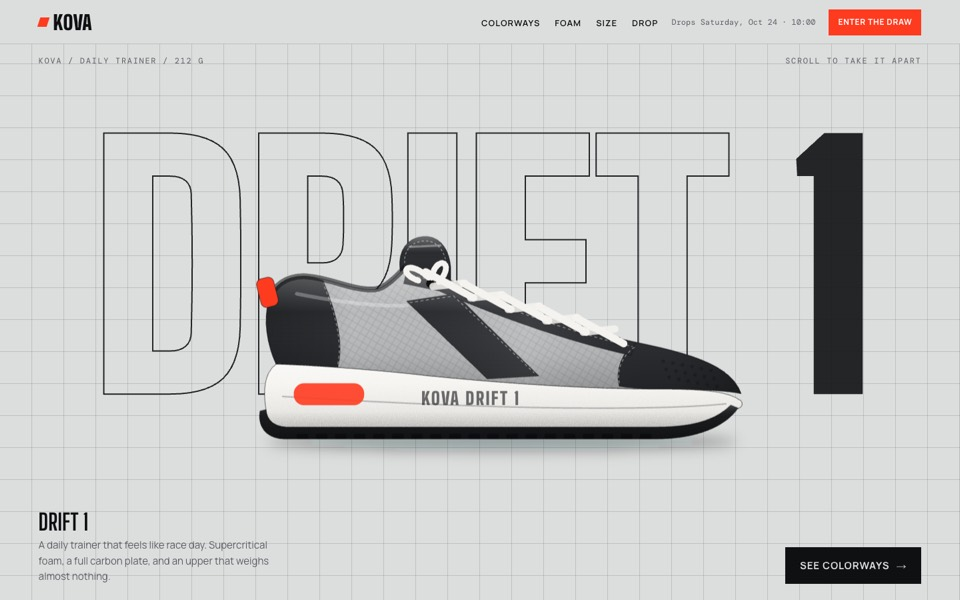
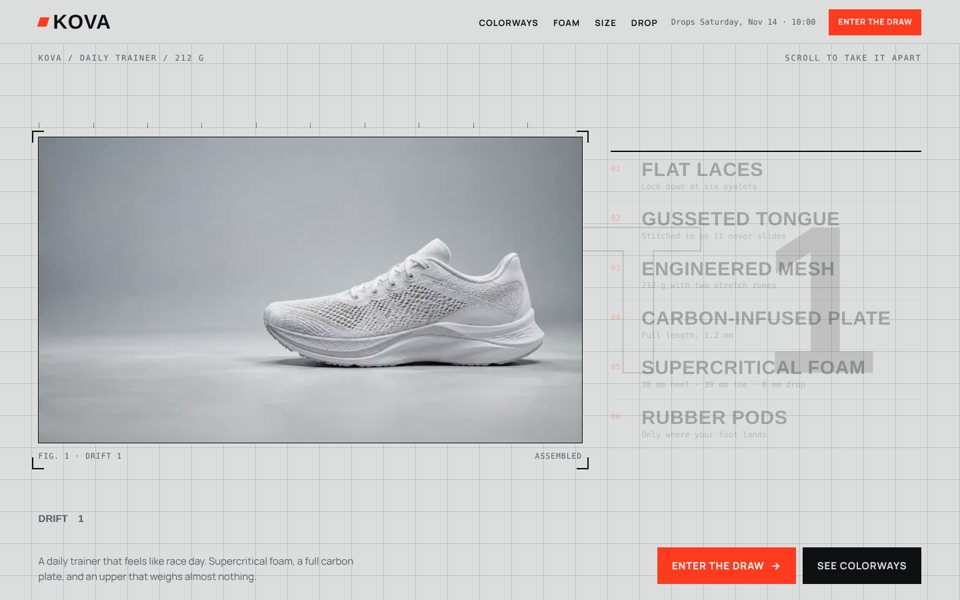
Kova redesigned v5: the real exploded view, filmed, pinned to a drafting sheet
The drawn trainer is gone. The shoe (the brand's video or photos, or the design's take)
comes apart and back together as you scroll inside a figure plate with crop marks and a
ruler, the six layers called out one by one on the spec list beside it. Colourways are
now a seven-part colour card instead of a recoloured drawing.

Claude-Session: https://claude.ai/code/session_0133g3z4wqTvWj4LLKkZ92ba

diff --git a/design-packages/design/kova/template.html b/design-packages/design/kova/template.html
@@ -1,4 +1,6 @@
 <!doctype html><html><head><meta charset=utf8><meta name=viewport content="width=device-width,initial-scale=1,viewport-fit=cover"><style>:root{color-scheme:light;box-sizing:border-box;padding-top:env(safe-area-inset-top,0px);padding-bottom:env(safe-area-inset-bottom,0px)}html{scroll-padding-top:env(safe-area-inset-top,0px)}body{margin:0;padding:0;font:14px -apple-system,BlinkMacSystemFont,sans-serif;background:#fff;color:#000}img{max-width:100%}[hidden]:not([hidden=until-found i]){display:none!important}</style></head><body>
+<meta name="description" content="{{hero.lede|attr}}">
+<script>document.documentElement.classList.add('js');setTimeout(function(){if(!window.__kova)document.documentElement.classList.remove('js')},3500)</script>
 <title>{{business.name}}</title>
 <link rel="preconnect" href="https://fonts.googleapis.com">
 <link rel="preconnect" href="https://fonts.gstatic.com" crossorigin>
@@ -48,32 +50,51 @@ p { margin: 0; }
 .drop-chip { font-family: var(--mono); font-size: 12px; color: var(--dim); }
 @media (max-width: 760px) { .nav ul, .drop-chip { display: none; } .nav .btn { margin-left: auto; } }
 
-/* ---------- hero ---------- */
-.hero { height: 440vh; position: relative; }
-.stage { position: sticky; top: 0; height: 100svh; overflow: hidden; display: grid; place-items: center; }
-.bigword { position: absolute; left: 0; right: 0; top: 50%; transform: translateY(-62%); text-align: center; font-family: var(--display); font-weight: 900; font-size: 34vw; line-height: .8; letter-spacing: -.02em;
-  color: transparent; -webkit-text-stroke: 2px var(--ink); opacity: .9; white-space: nowrap; pointer-events: none; user-select: none; }
-.bigword b { color: var(--ink); -webkit-text-stroke: 0; font-weight: 900; }
-.shoebox { position: relative; width: min(94vw, 1100px, 128svh); z-index: 2; will-change: transform; }
-.hero .shoebox { margin-top: 2svh; }
-.shoebox svg { width: 100%; height: auto; display: block; overflow: visible; }
-.hero-meta { position: absolute; left: var(--gutter); right: var(--gutter); bottom: calc(env(safe-area-inset-bottom, 0px) + 24px); display: flex; justify-content: space-between; align-items: end; gap: 18px; z-index: 3; flex-wrap: wrap; }
-.hero-meta .left { display: grid; gap: 8px; max-width: 36ch; }
-.hero-meta .left b { font-family: var(--display); font-size: 34px; text-transform: uppercase; line-height: .9; }
+/* ---------- hero: the exploded view, filmed, pinned to a drafting sheet ---------- */
+.hero { position: relative; }
+.stage { position: relative; min-height: min(100svh, 980px); overflow: hidden; display: grid; grid-template-columns: minmax(0, 1.75fr) minmax(0, 1fr); gap: clamp(20px, 3vw, 48px); align-items: center; padding: calc(env(safe-area-inset-top, 0px) + 110px) var(--gutter) 110px; }
+.js:not(.flat) .hero { height: 460vh; }
+.js:not(.flat) .stage { position: sticky; top: 0; height: 100svh; min-height: 0; }
+.bigword { position: absolute; left: 0; right: 0; top: 50%; transform: translateY(-50%); text-align: center; font-family: var(--display); font-weight: 900; font-size: clamp(120px, 22vw, 380px); line-height: .8; text-transform: uppercase; color: transparent; -webkit-text-stroke: 2px var(--ink); opacity: .14; white-space: nowrap; pointer-events: none; user-select: none; }
+.bigword b { color: var(--ink); -webkit-text-stroke: 0; }
+.hero-top { position: absolute; left: var(--gutter); right: var(--gutter); top: calc(env(safe-area-inset-top, 0px) + 78px); display: flex; justify-content: space-between; gap: 12px; z-index: 3; }
+.plate { position: relative; z-index: 2; margin: 0; align-self: center; }
+.plate .frame { position: relative; aspect-ratio: 16 / 9; background: #dfe1e3; box-shadow: 0 0 0 1px var(--ink); overflow: hidden; }
+.plate img, .plate canvas { position: absolute; inset: 0; width: 100%; height: 100%; display: block; }
+.plate img { object-fit: cover; }
+.plate .crop { position: absolute; width: 18px; height: 18px; border: 0 solid var(--ink); }
+.plate .crop.a { left: -10px; top: -10px; border-width: 2px 0 0 2px; }
+.plate .crop.b { right: -10px; top: -10px; border-width: 2px 2px 0 0; }
+.plate .crop.c { left: -10px; bottom: -10px; border-width: 0 0 2px 2px; }
+.plate .crop.d { right: -10px; bottom: -10px; border-width: 0 2px 2px 0; }
+.plate figcaption { display: flex; justify-content: space-between; gap: 12px; margin-top: 12px; font-family: var(--mono); font-size: 11.5px; letter-spacing: .08em; text-transform: uppercase; color: var(--dim); }
+.plate .rule { position: absolute; left: 0; right: 0; top: -22px; height: 8px; background: repeating-linear-gradient(90deg, var(--ink) 0 1px, transparent 1px 10%); opacity: .5; }
+.parts { position: relative; z-index: 2; list-style: none; margin: 0; padding: 0; counter-reset: p; border-top: 2px solid var(--ink); }
+.parts li { position: relative; display: grid; grid-template-columns: 34px minmax(0, 1fr); gap: 2px 12px; padding: 12px 0; border-bottom: 1px solid var(--line); opacity: .28; transition: opacity .35s, background .35s; }
+.parts li.seen { opacity: .7; }
+.parts li.on { opacity: 1; }
+.parts li::before { content: ""; position: absolute; right: 100%; top: 50%; width: 0; height: 2px; background: var(--accent); transition: width .5s var(--out); }
+.parts li.on::before { width: clamp(20px, 3vw, 48px); }
+.parts .n { grid-row: 1 / 3; font-family: var(--mono); font-size: 12px; color: var(--accent); padding-top: 4px; }
+.parts b { font-family: var(--display); font-size: clamp(22px, 2vw, 30px); line-height: 1; text-transform: uppercase; letter-spacing: .02em; }
+.parts span { font-family: var(--mono); font-size: 12px; color: var(--dim); }
+.hero-meta { position: absolute; left: var(--gutter); right: var(--gutter); bottom: calc(env(safe-area-inset-bottom, 0px) + 24px); display: flex; justify-content: space-between; align-items: end; gap: 20px; z-index: 3; transition: opacity .4s; }
+.hero-meta .left { display: grid; gap: 8px; max-width: 46ch; }
+.hero-meta .left b { font-family: var(--display); font-size: clamp(34px, 4vw, 56px); text-transform: uppercase; line-height: .9; }
 .hero-meta .left span { color: var(--dim); font-size: 15px; }
-.hb { display: flex; gap: 10px; }
-.hero-top { position: absolute; left: var(--gutter); right: var(--gutter); top: calc(env(safe-area-inset-top, 0px) + 82px); display: flex; justify-content: space-between; gap: 16px; z-index: 3; }
-.spec-card { position: absolute; left: 50%; transform: translateX(-50%); bottom: calc(env(safe-area-inset-bottom, 0px) + 96px); z-index: 4; background: var(--ink); color: var(--paper); padding: 12px 16px; min-width: 260px; max-width: calc(100vw - 32px); display: none; }
-.spec-card b { display: block; font-family: var(--display); font-size: 26px; text-transform: uppercase; line-height: 1; }
-.spec-card span { font-family: var(--mono); font-size: 12px; color: #b8bcbf; }
-@media (max-width: 760px) { .spec-card { display: block; } .hero-meta .left span { display: none; } .hero-meta .btns { display: none; } .bigword { font-size: 27vw; } .hero .shoebox { width: 104vw; margin-top: -6svh; } }
-.callout text { font-family: var(--mono); fill: var(--ink); paint-order: stroke; stroke: var(--paper); stroke-width: 8px; stroke-linejoin: round; }
-.callout .t1 { font-family: var(--display); font-weight: 700; font-size: 30px; text-transform: uppercase; letter-spacing: .02em; }
-.callout .t2 { font-size: 17px; fill: var(--dim); }
-.callout path { fill: none; stroke: var(--ink); stroke-width: 1.6; }
-.callout circle { fill: var(--accent); }
-.callout .num { font-family: var(--mono); font-size: 14px; fill: var(--accent); }
-@media (max-width: 760px) { .callout .t2 { display: none; } .callout .t1 { font-size: 46px; } }
+.hb { display: flex; gap: 10px; flex-wrap: wrap; }
+.split .w { display: inline-block; overflow: hidden; vertical-align: top; padding-bottom: .06em; }
+.split .w > i { display: inline-block; font-style: normal; animation: rise .9s var(--out) both; }
+@keyframes rise { from { transform: translateY(108%); } }
+@media (max-width: 860px) {
+  .js:not(.flat) .hero { height: 420vh; }
+  .stage { grid-template-columns: 1fr; align-content: start; gap: 18px; padding-top: calc(env(safe-area-inset-top, 0px) + 112px); padding-bottom: 150px; }
+  .js:not(.flat) .parts li:not(.on) { display: none; }
+  .js:not(.flat) .parts li { border: 0; }
+  .parts li::before { display: none; }
+  .hero-meta .left span { display: none; }
+  .bigword { top: 30%; }
+}
 
 /* ---------- band ---------- */
 .band { background: var(--ink); color: var(--paper); overflow: hidden; padding-block: 14px; position: relative; z-index: 3; }
@@ -86,8 +107,10 @@ p { margin: 0; }
 .c-head { display: flex; justify-content: space-between; align-items: end; gap: 20px; flex-wrap: wrap; }
 .c-head p { max-width: 36ch; color: var(--dim); }
 .c-stage { position: relative; margin-top: 4vh; display: grid; place-items: center; min-height: 40vh; }
-.c-stage .shoebox { width: min(92vw, 980px); transition: transform .8s var(--spring); }
-.c-stage .shoebox.flip { transform: scaleX(-1); }
+.chipcard { position: relative; z-index: 2; display: grid; grid-template-columns: repeat(7, minmax(0, 1fr)); width: min(92vw, 980px); height: clamp(200px, 34vh, 340px); box-shadow: 0 0 0 1px var(--ink), 0 30px 60px -30px rgba(0,0,0,.4); }
+.chipcard div { background: var(--c); display: flex; flex-direction: column; justify-content: flex-end; gap: 4px; padding: 12px 10px; font-family: var(--mono); font-size: 11px; text-transform: uppercase; letter-spacing: .06em; color: var(--t); transition: background-color .6s var(--out); }
+.chipcard div b { font-family: var(--display); font-size: clamp(16px, 1.6vw, 22px); letter-spacing: .02em; }
+@media (max-width: 760px) { .chipcard { grid-template-columns: 1fr; height: auto; } .chipcard div { flex-direction: row; justify-content: space-between; align-items: baseline; padding: 14px 12px; } }
 .c-name { position: absolute; left: 0; right: 0; top: 50%; transform: translateY(-50%); text-align: center; font-family: var(--display); font-weight: 900; font-size: 22vw; line-height: .8; text-transform: uppercase; color: rgba(15,16,18,.07); pointer-events: none; white-space: nowrap; }
 .c-bar { display: flex; flex-wrap: wrap; justify-content: space-between; align-items: center; gap: 16px; margin-top: 3vh; }
 .swatches { display: flex; gap: 10px; flex-wrap: wrap; }
@@ -181,11 +204,21 @@ footer { background: var(--ink); color: var(--paper); padding: 4vh var(--gutter)
     <div class="stage" id="stage">
       <div class="bigword" aria-hidden="true" id="bigword">{{product.bigA}} <b>{{product.bigB}}</b></div>
       <div class="hero-top"><span class="eyebrow">{{hero.eyebrow}}</span><span class="eyebrow" id="explodeLbl">Scroll to take it apart</span></div>
-      <div class="shoebox" id="heroShoe"></div>
-      <div class="spec-card" id="specCard"><b id="specT">{{product.name}}</b><span id="specS">Scroll to take it apart</span></div>
-      <div class="hero-meta">
+      <figure class="plate" id="plate">
+        <div class="rule" aria-hidden="true"></div>
+        <div class="frame">
+{{#if $.film.poster}}          <img src="{{$.film.poster|attr}}" alt="" aria-hidden="true">
+{{/if}}          <canvas id="film" role="img" aria-label="{{$.shoeAlt|attr}}, coming apart into its layers and back together"></canvas>
+        </div>
+        <span class="crop a"></span><span class="crop b"></span><span class="crop c"></span><span class="crop d"></span>
+        <figcaption><span>Fig. 1 · {{product.name}}</span><span id="figState">Assembled</span></figcaption>
+      </figure>
+      <ol class="parts" id="parts" aria-live="polite">
+{{#each layers join="\n"}}        <li><span class="n">0{{@n}}</span><b>{{.title}}</b><span>{{.spec}}</span></li>{{/each}}
+      </ol>
+      <div class="hero-meta" id="heroMeta">
         <div class="left"><b>{{product.name}}</b><span>{{hero.lede}}</span></div>
-        <div class="btns hb"><a class="btn k" href="#colors">{{hero.button}} <span class="arr">→</span></a></div>
+        <div class="btns hb"><a class="btn r" href="#drop">{{nav.cta}} <span class="arr">→</span></a><a class="btn k" href="#colors">{{hero.button}}</a></div>
       </div>
     </div>
   </section>
@@ -198,11 +231,11 @@ footer { background: var(--ink); color: var(--paper); padding: 4vh var(--gutter)
     <div class="c-head"><div><p class="eyebrow">{{colors.eyebrow}}</p><h2>{{colors.titleA}}<br>{{colors.titleB}}</h2></div><p>{{colors.body}}</p></div>
     <div class="c-stage">
       <div class="c-name" id="cName" aria-hidden="true">{{colorways.0.name}}</div>
-      <div class="shoebox" id="colorShoe"></div>
+      <div class="chipcard" id="chipcard" role="img" aria-label="The colours of {{colorways.0.name|attr}}"></div>
     </div>
     <div class="c-bar">
       <div class="swatches" id="swatches"></div>
-      <div class="c-price"><b>{{$.priceText}}</b><button class="btn k" id="flip" type="button">Flip it ↔</button><a class="btn r" href="#drop">{{nav.cta}} <span class="arr">→</span></a></div>
+      <div class="c-price"><b>{{$.priceText}}</b><a class="btn r" href="#drop">{{nav.cta}} <span class="arr">→</span></a></div>
     </div>
   </section>
 
@@ -266,121 +299,26 @@ footer { background: var(--ink); color: var(--paper); padding: 4vh var(--gutter)
   const COLORWAYS = [
 {{$.colorwaysJs|raw}}
   ];
-  function applyColors(el, c) { for (const k of ['upper', 'over', 'mid', 'sole', 'lace', 'acc', 'tongue', 'plate']) el.style.setProperty('--c-' + k, c[k]); }
-
-  /* ---------- the shoe (side view, toe right, 800x400 local units) ---------- */
-  const HOLES = Array.from({ length: 6 }, (_, i) => { const t = i / 5; return [332 + (588 - 332) * t, 126 + (204 - 126) * t]; });
-  function shoe(id, withCallouts) {
-    const laces = HOLES.slice(0, 5).map(([x, y], i) => { const [x2, y2] = HOLES[i + 1]; return `<path class="f-lace" d="M${x - 6} ${y - 16} L${x2 + 8} ${y2 + 4}" stroke-width="10" stroke-linecap="round"/><path class="f-lace" d="M${x + 4} ${y + 4} L${x2 - 4} ${y2 - 16}" stroke-width="10" stroke-linecap="round" opacity=".85"/>`; }).join('');
-    const holes = HOLES.map(([x, y]) => `<circle cx="${x}" cy="${y}" r="5.5" fill="#0f1012"/>`).join('');
-    const perf = []; for (let i = 0; i < 6; i++) for (let j = 0; j < 3; j++) perf.push(`<circle cx="${650 + i * 13 + j * 4}" cy="${232 + j * 11 + i * 2.5}" r="2.6" fill="rgba(15,16,18,.35)"/>`);
-    const lugs = []; for (let x = 150; x < 640; x += 26) lugs.push(`<rect x="${x}" y="331" width="16" height="7" rx="2" fill="rgba(0,0,0,.35)"/>`);
-    const UPPER = 'M122 236 C110 210 104 176 112 150 C118 128 136 116 160 116 C196 118 226 136 256 134 C270 133 284 118 298 104 L352 118 C420 148 520 186 610 206 C690 222 742 238 756 276 C738 272 700 270 640 270 C560 270 450 264 330 252 C260 244 180 238 122 236 Z';
-    const g = (cls, inner) => `<g class="part ${cls}" data-part="${cls}">${inner}</g>`;
-    const parts =
-      g('p-tongue', `<path class="f-tongue ink" d="M292 112 C286 86 298 64 322 62 C344 60 358 78 360 104 L360 124 L300 118 Z"/><path d="M292 112 C286 86 298 64 322 62 C344 60 358 78 360 104 L360 124 L300 118 Z" fill="url(#vol-${id})"/><path d="M304 76 L346 74" stroke="rgba(255,255,255,.35)" stroke-width="3" stroke-linecap="round"/><path d="M298 104 C294 84 304 70 322 68 C340 66 352 80 354 100" fill="none" stroke="rgba(255,255,255,.45)" stroke-width="1.2" stroke-dasharray="3 3"/>`) +
-      g('p-upper', `<path class="f-upper ink" d="${UPPER}"/>
-        <path d="${UPPER}" fill="url(#mesh-${id})"/>
-        <path d="M112 150 C104 176 110 210 122 236 C150 237 180 238 206 240 C214 210 206 170 186 122 C176 118 168 116 160 116 C136 116 118 128 112 150 Z" class="f-over ink"/>
-        <path d="M612 206 C690 222 742 238 756 276 C738 272 700 270 640 270 C620 270 604 268 590 266 C584 244 594 220 612 206 Z" class="f-over ink"/>
-        <path d="M300 150 L366 140 L480 252 L410 256 Z" class="f-over ink"/>
-        <path d="M300 108 L352 118 C420 148 520 186 612 206 L606 224 C514 204 412 166 344 136 L296 126 Z" class="f-over ink"/>
-        <path d="${UPPER}" fill="url(#vol-${id})"/><path d="${UPPER}" fill="url(#side-${id})"/>
-        <path d="M206 236 C212 206 204 170 186 126 M590 262 C586 242 596 222 612 212 M304 152 L364 143 L474 248 M300 114 L350 124 C420 154 520 192 608 212" fill="none" stroke="rgba(255,255,255,.4)" stroke-width="1.3" stroke-dasharray="4 3.5"/>
-        <path d="M112 150 C118 128 136 116 160 116 C196 118 226 136 256 134 C270 133 284 118 298 104" fill="none" stroke="rgba(15,16,18,.55)" stroke-width="8" stroke-linecap="round"/>
-        <rect x="98" y="118" width="24" height="40" rx="8" class="f-acc ink" transform="rotate(-14 110 138)"/>
-        ${perf.join('')}${holes}
-        <path d="M150 140 C200 150 260 158 300 156" fill="none" stroke="rgba(255,255,255,.28)" stroke-width="5" stroke-linecap="round"/>`) +
-      g('p-laces', `${laces}<path class="f-lace" d="M330 118 C300 90 286 112 316 122 M334 118 C340 86 368 96 344 124" fill="none" stroke-width="8" stroke-linecap="round"/>`) +
-      g('p-plate', `<path class="f-plate ink" d="M140 252 C260 258 420 268 560 272 C640 274 700 276 748 288 L746 296 C700 286 640 282 560 280 C420 276 260 266 140 260 Z"/><path d="M160 256 C300 262 450 272 600 276" stroke="var(--c-acc)" stroke-width="2" fill="none"/>`) +
-      g('p-mid', `<path class="f-mid ink" d="M108 298 C104 270 106 248 122 236 C180 238 260 244 330 252 C450 264 560 270 640 270 C700 270 738 272 756 286 C760 291 756 296 750 297 C730 312 692 322 640 322 L136 322 C118 321 109 312 108 298 Z"/>
-        <path d="M108 298 C104 270 106 248 122 236 C180 238 260 244 330 252 C450 264 560 270 640 270 C700 270 738 272 756 286 C760 291 756 296 750 297 C730 312 692 322 640 322 L136 322 C118 321 109 312 108 298 Z" fill="url(#foam-${id})"/>
-        <path d="M108 298 C104 270 106 248 122 236 C180 238 260 244 330 252 C450 264 560 270 640 270 C700 270 738 272 756 286 C760 291 756 296 750 297 C730 312 692 322 640 322 L136 322 C118 321 109 312 108 298 Z" fill="#fff" filter="url(#grain-${id})" opacity=".5"/>
-        <path d="M130 280 C260 288 420 296 560 296 C640 296 700 294 736 290" fill="none" stroke="rgba(15,16,18,.25)" stroke-width="2"/>
-        <rect x="146" y="262" width="96" height="30" rx="14" class="f-acc" opacity=".9"/>
-        <text x="320" y="292" font-family="Big Shoulders Display, Impact, sans-serif" font-weight="900" font-size="24" fill="rgba(15,16,18,.6)" letter-spacing="2">{{$.soleText|tl}}</text>`) +
-      g('p-out', `<path class="f-sole ink" d="M100 300 C96 320 108 338 134 338 L640 338 C694 338 734 322 752 296 L742 292 C722 312 690 322 640 322 L136 322 C118 321 109 312 108 298 Z"/><path d="M100 300 C96 320 108 338 134 338 L640 338 C694 338 734 322 752 296 L742 292 C722 312 690 322 640 322 L136 322 C118 321 109 312 108 298 Z" fill="url(#rub-${id})"/>${lugs.join('')}`);
-    const defs = `<defs><pattern id="mesh-${id}" width="9" height="9" patternUnits="userSpaceOnUse" patternTransform="rotate(30)"><path d="M0 4.5 H9 M4.5 0 V9" stroke="rgba(15,16,18,.09)" stroke-width="1.2"/></pattern>
-      <filter id="blur-${id}" x="-20%" y="-200%" width="140%" height="500%"><feGaussianBlur stdDeviation="9"/></filter>
-      <linearGradient id="vol-${id}" x1="0" y1="0" x2="0" y2="1"><stop offset="0" stop-color="#fff" stop-opacity=".32"/><stop offset=".35" stop-color="#fff" stop-opacity="0"/><stop offset=".7" stop-color="#000" stop-opacity=".04"/><stop offset="1" stop-color="#000" stop-opacity=".22"/></linearGradient>
-      <linearGradient id="side-${id}" x1="0" y1="0" x2="1" y2="0"><stop offset="0" stop-color="#000" stop-opacity=".18"/><stop offset=".18" stop-color="#000" stop-opacity="0"/><stop offset=".55" stop-color="#fff" stop-opacity=".08"/><stop offset=".85" stop-color="#000" stop-opacity="0"/><stop offset="1" stop-color="#000" stop-opacity=".2"/></linearGradient>
-      <linearGradient id="foam-${id}" x1="0" y1="0" x2="0" y2="1"><stop offset="0" stop-color="#fff" stop-opacity=".35"/><stop offset=".3" stop-color="#fff" stop-opacity=".05"/><stop offset=".75" stop-color="#000" stop-opacity=".06"/><stop offset="1" stop-color="#000" stop-opacity=".24"/></linearGradient>
-      <linearGradient id="rub-${id}" x1="0" y1="0" x2="0" y2="1"><stop offset="0" stop-color="#fff" stop-opacity=".18"/><stop offset=".4" stop-color="#000" stop-opacity="0"/><stop offset="1" stop-color="#000" stop-opacity=".35"/></linearGradient>
-      <filter id="grain-${id}" x="0" y="0" width="100%" height="100%"><feTurbulence type="fractalNoise" baseFrequency=".9" numOctaves="2" seed="4" result="n"/><feColorMatrix in="n" type="matrix" values="0 0 0 0 1  0 0 0 0 1  0 0 0 0 1  0 0 0 -2.2 1.25" result="a"/><feComposite in="a" in2="SourceGraphic" operator="in"/></filter></defs>`;
-    if (!withCallouts) return `<svg class="shoe" viewBox="60 40 740 330" role="img" aria-label="{{$.shoeAlt|tl}}, side view">${defs}<ellipse cx="430" cy="342" rx="320" ry="12" fill="rgba(15,16,18,.35)" filter="url(#blur-${id})"/>${parts}</svg>`;
-    return `<svg class="shoe" viewBox="0 150 1000 620" role="img" aria-label="{{$.shoeAlt|tl}}. Scrolling separates it into laces, tongue, upper, plate, foam and outsole.">${defs}
-      <g id="shoeRoot-${id}" transform="translate(100 300)"><ellipse id="shadow-${id}" cx="430" cy="342" rx="320" ry="12" fill="rgba(15,16,18,.35)" filter="url(#blur-${id})"/>${parts}</g>
-      <g class="callouts" id="callouts-${id}"></g></svg>`;
+  /* ---------- the exploded view: the take plays with the scroll ---------- */
+  const STILL = /[?&]still\b/.test(location.search), FLAT = reduce || STILL;
+  if (FLAT) document.documentElement.classList.add('flat');
+  {{$.film.runtime|raw}}
+  const film = SRFilm($('#film'), {{$.film.json|raw}}, { flat: FLAT });
+  const parts = $$('#parts li'), bigword = $('#bigword'), heroMeta = $('#heroMeta'), figState = $('#figState'), explodeLbl = $('#explodeLbl');
+  // each layer is called out as it separates; at the end it goes back together
+  const AT = [.2, .3, .4, .5, .6, .7];
+  function heroUpdate(p) {
+    let active = -1; AT.forEach((a, i) => { if (p >= a) active = i; });
+    const back = p > .86;
+    parts.forEach((li, i) => { li.classList.toggle('on', i === active && !back); li.classList.toggle('seen', i < active || back); });
+    const lbl = p < .12 ? 'Scroll to take it apart' : back ? 'Ready to run' : 'Exploded view · 6 layers';
+    if (explodeLbl.textContent !== lbl) explodeLbl.textContent = lbl;
+    const st = p < .15 ? 'Assembled' : back ? 'Back together' : active >= 0 ? `Layer 0${active + 1} of 06` : 'Separating';
+    if (figState.textContent !== st) figState.textContent = st;
+    bigword.style.transform = `translateY(-50%) scale(${(1 + p * .2).toFixed(3)})`;
+    heroMeta.style.opacity = (1 - clamp((p - .06) * 8) + clamp((p - .9) * 10)).toFixed(2);
   }
-
-  /* ---------- hero exploded view ---------- */
-  const heroBox = $('#heroShoe'); heroBox.innerHTML = shoe('h', true); applyColors(heroBox, COLORWAYS[0]);
-  const colorBox = $('#colorShoe'); colorBox.innerHTML = shoe('c', false); applyColors(colorBox, COLORWAYS[0]);
-  // part, dx, dy, anchor (local), side, title, short, spec, reveal order
-  const LAYERS = [
-    ['p-laces', 70, -235, [560, 190], 'R', {{layers.0.title|js}}, {{layers.0.short|js}}, {{layers.0.spec|js}}, 0],
-    ['p-tongue', -60, -150, [324, 78], 'L', {{layers.1.title|js}}, {{layers.1.short|js}}, {{layers.1.spec|js}}, 1],
-    ['p-upper', 0, -105, [440, 200], 'L', {{layers.2.title|js}}, {{layers.2.short|js}}, {{layers.2.spec|js}}, 2],
-    ['p-plate', 0, -30, [600, 279], 'R', {{layers.3.title|js}}, {{layers.3.short|js}}, {{layers.3.spec|js}}, 3],
-    ['p-mid', 0, 30, [200, 300], 'L', {{layers.4.title|js}}, {{layers.4.short|js}}, {{layers.4.spec|js}}, 4],
-    ['p-out', 0, 100, [520, 334], 'R', {{layers.5.title|js}}, {{layers.5.short|js}}, {{layers.5.spec|js}}, 5],
-  ];
-  const partEl = {}; LAYERS.forEach(L => partEl[L[0]] = heroBox.querySelector(`[data-part="${L[0]}"]`));
-  const plateEl = partEl['p-plate'];
-  const co = $('#callouts-h'), NS = 'http://www.w3.org/2000/svg';
-  const callouts = LAYERS.map((L, i) => {
-    const g = document.createElementNS(NS, 'g'); g.setAttribute('class', 'callout');
-    const path = document.createElementNS(NS, 'path'), dot = document.createElementNS(NS, 'circle'), num = document.createElementNS(NS, 'text'), t1 = document.createElementNS(NS, 'text'), t2 = document.createElementNS(NS, 'text');
-    dot.setAttribute('r', 6); num.setAttribute('class', 'num'); t1.setAttribute('class', 't1'); t2.setAttribute('class', 't2');
-    num.textContent = '0' + (i + 1); t2.textContent = L[7];
-    if (L[4] === 'R') [num, t1, t2].forEach(t => t.setAttribute('text-anchor', 'end'));
-    g.append(path, dot, num, t1, t2); co.appendChild(g); return { g, path, dot, num, t1, t2 };
-  });
-  const narrow = () => innerWidth < 760;
-  function setTitles() { callouts.forEach((c, i) => c.t1.textContent = narrow() ? LAYERS[i][6] : LAYERS[i][5]); }
-  setTitles();
-  const shadow = $('#shadow-h'), stage = $('#stage'), bigword = $('#bigword'), heroMeta = $('.hero-meta');
-  let tiltX = 0, tiltY = 0, tx = 0, ty = 0;
-  addEventListener('pointermove', e => { tx = (e.clientX / innerWidth - .5); ty = (e.clientY / innerHeight - .5); }, { passive: true });
-
-  function heroUpdate(p, t) {
-    const ex = eio(seg(p, .1, .42)) * (1 - eio(seg(p, .76, .88)));
-    const slam = p > .88 ? Math.exp(-(p - .88) * 60) * Math.sin((p - .88) * 140) : 0;
-    LAYERS.forEach(([k, dx, dy], i) => {
-      const stagger = 1 - i * .06;
-      const e = clamp(ex * (1 + (1 - stagger)) - (1 - stagger) * .5);
-      partEl[k].setAttribute('transform', `translate(${(dx * e).toFixed(1)} ${(dy * e + slam * 8 * (i - 2.5)).toFixed(1)})`);
-    });
-    plateEl.style.opacity = clamp(ex * 3);
-    shadow.setAttribute('rx', (320 - ex * 40).toFixed(0)); shadow.setAttribute('opacity', (1 - ex * .4).toFixed(2));
-    // callouts
-    const nar = narrow();
-    let active = -1;
-    callouts.forEach((c, i) => {
-      const L = LAYERS[i], show = seg(p, .2 + i * .045, .28 + i * .045) * (1 - seg(p, .74, .78));
-      if (show > .5) active = i;
-      const e = ex, ax = 100 + L[3][0] + L[1] * e, ay = 300 + L[3][1] + L[2] * e;
-      const left = L[4] === 'L', lx = left ? (nar ? 30 : 40) : (nar ? 970 : 960), ex2 = left ? (nar ? 330 : 270) : (nar ? 670 : 730);
-      const reveal = eoc(show), endx = lerp(ax, ex2, reveal);
-      c.path.setAttribute('d', `M${ax.toFixed(1)} ${ay.toFixed(1)} L${endx.toFixed(1)} ${ay.toFixed(1)}${reveal > .98 ? ` L${lx} ${ay.toFixed(1)}` : ''}`);
-      c.dot.setAttribute('cx', ax.toFixed(1)); c.dot.setAttribute('cy', ay.toFixed(1));
-      c.g.style.opacity = show > 0 ? 1 : 0;
-      [c.num, c.t1, c.t2].forEach(tn => { tn.setAttribute('x', lx); tn.style.opacity = clamp((show - .5) * 2); });
-      c.num.setAttribute('y', (ay - (nar ? 56 : 44)).toFixed(1)); c.t1.setAttribute('y', (ay - 10).toFixed(1)); c.t2.setAttribute('y', (ay + 24).toFixed(1));
-    });
-    const lbl = p < .1 ? 'Scroll to take it apart' : p < .76 ? 'Exploded view · 6 layers' : p < .9 ? 'Putting it back together' : 'Ready to run';
-    if ($('#explodeLbl').textContent !== lbl) $('#explodeLbl').textContent = lbl;
-    const st = active >= 0 ? LAYERS[active] : null;
-    const sT = st ? st[5] : (p >= .88 ? {{$.endTitle|js}} : {{product.name|js}}), sS = st ? st[7] : (p >= .88 ? {{$.endSub|js}} : 'Scroll to take it apart');
-    if ($('#specT').textContent !== sT) { $('#specT').textContent = sT; $('#specS').textContent = sS; }
-    // shoe float + tilt
-    tiltX = lerp(tiltX, tx, .08); tiltY = lerp(tiltY, ty, .08);
-    const bob = reduce ? 0 : Math.sin(t / 900) * 6 * (1 - ex);
-    heroBox.style.transform = `perspective(1400px) rotateY(${(tiltX * 14).toFixed(2)}deg) rotateX(${(-tiltY * 8).toFixed(2)}deg) translateY(${(bob - ex * (nar ? 0 : 10)).toFixed(1)}px) scale(${(1 - ex * (nar ? .02 : .08)).toFixed(3)})`;
-    bigword.style.transform = `translateY(${nar ? '-95%' : '-62%'}) scale(${(1 + p * .25).toFixed(3)})`;
-    bigword.style.opacity = (.9 - ex * .6).toFixed(2);
-    heroMeta.style.opacity = (1 - clamp(ex * 2.2)).toFixed(2);
-  }
+  (function () { const b = $('.hero-meta .left b'); if (!b || reduce || STILL) return; const ws = b.textContent.split(/(\s+)/); b.textContent = ''; let k = 0; ws.forEach(s => { if (!s) return; if (/^\s+$/.test(s)) { b.appendChild(document.createTextNode(' ')); return; } const w = document.createElement('span'); w.className = 'w'; const i = document.createElement('i'); i.textContent = s; i.style.animationDelay = (150 + k++ * 90) + 'ms'; w.appendChild(i); b.appendChild(w); }); b.classList.add('split'); })();
 
   /* ---------- colorways ---------- */
   const sw = $('#swatches'), colors = $('#colors');
@@ -390,13 +328,18 @@ footer { background: var(--ink); color: var(--paper); padding: 4vh var(--gutter)
     b.onclick = () => setColor(i); sw.appendChild(b);
   });
   let cIdx = 0;
+  const chipcard = $('#chipcard'), PARTS = [['upper', 'Upper'], ['over', 'Overlays'], ['mid', 'Midsole'], ['sole', 'Outsole'], ['lace', 'Laces'], ['acc', 'Accent'], ['tongue', 'Tongue']];
+  const ink = h => { const m = /^#?([0-9a-f]{6})$/i.exec(h || ''); if (!m) return '#0f1012'; const n = parseInt(m[1], 16), l = (.2126 * (n >> 16) + .7152 * (n >> 8 & 255) + .0722 * (n & 255)) / 255; return l > .55 ? '#0f1012' : '#f4f3ef'; };
+  PARTS.forEach(([k, label]) => { const d = document.createElement('div'); d.dataset.k = k; d.innerHTML = `<b>${label}</b><span></span>`; chipcard.appendChild(d); });
   function setColor(i) {
-    cIdx = i; const c = COLORWAYS[i]; applyColors(colorBox, c); colors.style.backgroundColor = c.bg;
+    cIdx = i; const c = COLORWAYS[i]; colors.style.backgroundColor = c.bg;
+    chipcard.querySelectorAll('div').forEach(d => { const v = c[d.dataset.k]; d.style.setProperty('--c', v); d.style.setProperty('--t', ink(v)); d.querySelector('span').textContent = String(v).toUpperCase(); });
+    chipcard.setAttribute('aria-label', 'The colours of ' + c.name);
     $$('.swatch').forEach((s, j) => s.setAttribute('aria-pressed', String(j === i)));
     $('#cName').textContent = c.name; $('#tSub').textContent = `{{product.name|tl}} · ${c.name} · US ${$('#dSize').value || 9} · Results {{$.dayName}} {{drop.time}}`;
-    if (!reduce) colorBox.animate([{ transform: (colorBox.classList.contains('flip') ? 'scaleX(-1) ' : '') + 'translateY(0) rotate(0)' }, { transform: (colorBox.classList.contains('flip') ? 'scaleX(-1) ' : '') + 'translateY(-18px) rotate(-3deg)' }, { transform: (colorBox.classList.contains('flip') ? 'scaleX(-1) ' : '') + 'translateY(0) rotate(0)' }], { duration: 600, easing: 'cubic-bezier(.34,1.56,.64,1)' });
+    if (!reduce) chipcard.animate([{ transform: 'translateY(10px)', opacity: .6 }, { transform: 'none', opacity: 1 }], { duration: 500, easing: 'cubic-bezier(.16,1,.3,1)' });
   }
-  $('#flip').onclick = () => colorBox.classList.toggle('flip');
+  setColor(0);
 
   /* ---------- foam press ---------- */
   const press = $('#press'), slab = $('#slab'), weight = $('#weight');
@@ -462,12 +405,17 @@ footer { background: var(--ink); color: var(--paper); padding: 4vh var(--gutter)
     const tgt = scrollY; sy = reduce ? tgt : lerp(sy, tgt, .12); if (Math.abs(sy - tgt) < .1) sy = tgt;
     v = lerp(v, tgt - last, .2); last = tgt;
     const p = clamp((sy - hero.offsetTop) / (hero.offsetHeight - innerHeight));
-    if (sy < hero.offsetTop + hero.offsetHeight) heroUpdate(p, t);
+    const fp = FLAT ? 1 : AUTO ? ((t / 1000) / Math.max(4, film.seconds())) % 1 : p;
+    if (sy < hero.offsetTop + hero.offsetHeight) { film.draw(fp, t / 1000); if (!FLAT) heroUpdate(AUTO ? 0 : p); }
     const bw = band.scrollWidth / 2; band.style.transform = `translate3d(${-((sy * .6) % bw)}px,0,0) skewX(${clamp(v * -.3, -12, 12)}deg)`;
     foamTick();
     requestAnimationFrame(frame);
   }
-  addEventListener('resize', setTitles);
+  addEventListener('resize', () => film.size());
+  let inFrame = false; try { inFrame = window.self !== window.top; } catch (e) { inFrame = true; }
+  let AUTO = inFrame && scrollY < 1 && !FLAT;
+  if (AUTO) addEventListener('scroll', () => { if (AUTO && scrollY >= 1) { AUTO = false; film.poke(); } }, { passive: true });
+  window.__kova = 1;
   requestAnimationFrame(frame);
 })();
 </script>

diff --git a/design-packages/design/kova/hooks.js b/design-packages/design/kova/hooks.js
@@ -1,6 +1,7 @@
 // KOVA's design-specific build logic: the colorways as the page script's COLORWAYS, the drop day and time, the
 // labels printed on the drawn shoe, and the rules the schema can't express. Runs at build time only.
 'use strict';
+const film = require('../../engine/film');
 const { FILTERS } = require('../../engine/template');
 const { rgbHsl, hexRgb, contrast } = require('../../engine/colour');
 const DAYS = ['sun', 'mon', 'tue', 'wed', 'thu', 'fri', 'sat'];
@@ -11,6 +12,7 @@ function derive(c) {
   const js = FILTERS.js, d = DAYS.indexOf(c.drop.day), [h, m] = c.drop.time.split(':').map(Number);
   const price = c.locale.currency + c.product.price;
   return {
+    film: film.derive(c, null, [220, 225, 230]),
     colorwaysJs: c.colorways.map((w) => `    { name: ${js(w.name)}, ${KEYS.map((k) => `${k}: '${w[k]}'`).join(', ')}, plate: '#26282b', bg: '${w.bg}' },`).join('\n'),
     dropDay: d, dropH: h, dropM: m, dayName: NAMES[d], dayLower: NAMES[d].toLowerCase(),
     priceText: price,
